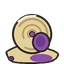
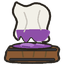
atelier: res_teinture — linge blanc plongé dans un baquet de pourpre d'après la référence fournie par Erik (dégradé d'immersion vgrad, goutte, cuve de bois à cerclages et staves, liquide aux volutes) ; 64x64 inchangé, zéro gameplay

diff --git a/assets-src/tools/generate.py b/assets-src/tools/generate.py
@@ -2745,34 +2745,45 @@ def res_soufre(db, da=None, w=64, h=64, img=None):
 
 
 def res_teinture(db, da=None, w=64, h=64, img=None):
-    """Teinture : murex de pourpre sur linge taché — coquille crème à
-    cannelures spiralées, canal siphonal épineux, sécrétion violette."""
-    # linge froissé taché de pourpre
-    db.smooth_poly([(6, 52), (20, 46), (44, 48), (58, 54), (48, 62), (14, 62)],
-                   fill="#E3D19A")
-    db.smooth_line([(6, 52), (20, 46), (44, 48), (58, 54), (48, 62), (14, 62),
-                    (6, 52)],
-                   fill=INK, width=1.8)
-    db.ellipse((30, 54, 52, 62), fill="#8E4FA8")
-    # coquille spiralée : gros tour crème, spire lisible, ouverture pourprée
-    db.ellipse((12, 14, 52, 54), fill="#E3D19A", outline=INK, width=2.2)
-    # spirale : enroulement du bord vers le centre (arcs décroissants)
-    db.arc((16, 18, 48, 50), 210, 120, fill="#B89A6A", width=2.2)
-    db.arc((22, 24, 42, 44), 150, 60, fill="#B89A6A", width=1.8)
-    db.arc((27, 29, 37, 39), 120, 30, fill="#B89A6A", width=1.6)
-    # cœur de spire pourpré
-    db.ellipse((29, 31, 35, 37), fill="#8E4FA8", outline=INK, width=1.2)
-    # ouverture : grande ovale pourprée au bas droit, bord de lèvre
-    db.ellipse((32, 32, 50, 52), fill="#8E4FA8", outline=INK, width=1.8)
-    db.ellipse((36, 36, 45, 47), fill="#6B3A88")
-    # petit reflet sur le haut de la coquille
-    db.smooth_line([(18, 22), (26, 17), (36, 16)], fill="#F6EBD4", width=2.4)
-    # goutte de pourpre perlant sur le linge
-    db.ellipse((8, 56, 14, 61), fill="#6B3A88", outline=INK, width=1)
-    # modelés : lumière sur la spire
+    """Teinture : linge blanc plongé dans un baquet de pourpre (référence
+    Erik) — tissu gorgé de violet qui dégoutte, cuve de bois à cerclages,
+    liquide aux volutes."""
+    # linge suspendu : blanc en haut, gorgé de pourpre en bas
+    linge = [(16, 2), (26, 6), (36, 3), (46, 7), (50, 16), (47, 30),
+             (49, 40), (43, 42), (41, 36), (36, 41), (31, 37), (26, 42),
+             (21, 36), (18, 40), (14, 34), (17, 22), (13, 12)]
+    db.smooth_poly(linge, fill="#F2F0E8")
+    db.smooth_line(linge + [linge[0]], fill=INK, width=2)
+    # dégradé d'immersion : pourpre qui grimpe par le bas du tissu
     if img is not None:
-        radial(img, 26, 24, 12, (255, 255, 255), 34, steps=6)
-        vgrad(img, (10, 44, 50, 54), (20, 20, 30), 0, 22, steps=8)
+        vgrad(img, (13, 2, 50, 42), (142, 79, 168), 0, 210, steps=18)
+    else:
+        db.smooth_poly([(16, 30), (48, 30), (45, 40), (36, 41), (31, 37),
+                        (26, 42), (21, 36), (18, 40)], fill="#8E4FA8")
+    # plis du tissu
+    db.smooth_line([(24, 12), (27, 22), (24, 32)], fill="#C9C4BC", width=1.4)
+    db.smooth_line([(40, 10), (38, 20), (41, 30)], fill="#C9C4BC", width=1.4)
+    # goutte qui retombe du linge
+    db.ellipse((30, 46, 35, 51), fill="#8E4FA8", outline=INK, width=1)
+    # baquet : staves de bois galbées + deux cerclages sombres
+    cuve = [(10, 46), (54, 46), (58, 54), (54, 62), (10, 62), (6, 54)]
+    db.smooth_poly(cuve, fill="#8A5A34")
+    db.smooth_line(cuve + [cuve[0]], fill=INK, width=2)
+    # staves verticales (léger galbe vers l'intérieur)
+    for x0, x1 in ((22, 23), (34, 33), (46, 45)):
+        db.line([(x0, 51), (x1, 57)], fill="#6B5230", width=1.6)
+    # cerclages
+    db.rrect((7, 48, 57, 51), 1.5, fill="#3A3A40", outline=INK, width=1)
+    db.rrect((9, 58, 55, 61), 1.5, fill="#3A3A40", outline=INK, width=1)
+    # surface du liquide pourpre (débordant au-dessus du rebord)
+    db.ellipse((11, 42, 53, 50), fill="#8E4FA8", outline=INK, width=2)
+    db.ellipse((20, 43, 34, 47), fill="#B07AC8")
+    db.smooth_line([(36, 44), (44, 45)], fill="#B07AC8", width=1.8)
+    db.smooth_line([(22, 46), (30, 47)], fill="#6B3A88", width=1.4)
+    # modelés : lumière sur le rebord et le flanc de la cuve
+    if img is not None:
+        vgrad(img, (8, 42, 56, 48), (255, 255, 255), 30, 0, steps=6)
+        vgrad(img, (12, 50, 24, 62), (255, 200, 150), 26, 0, steps=8)
 
 
 def res_uranium(d):
